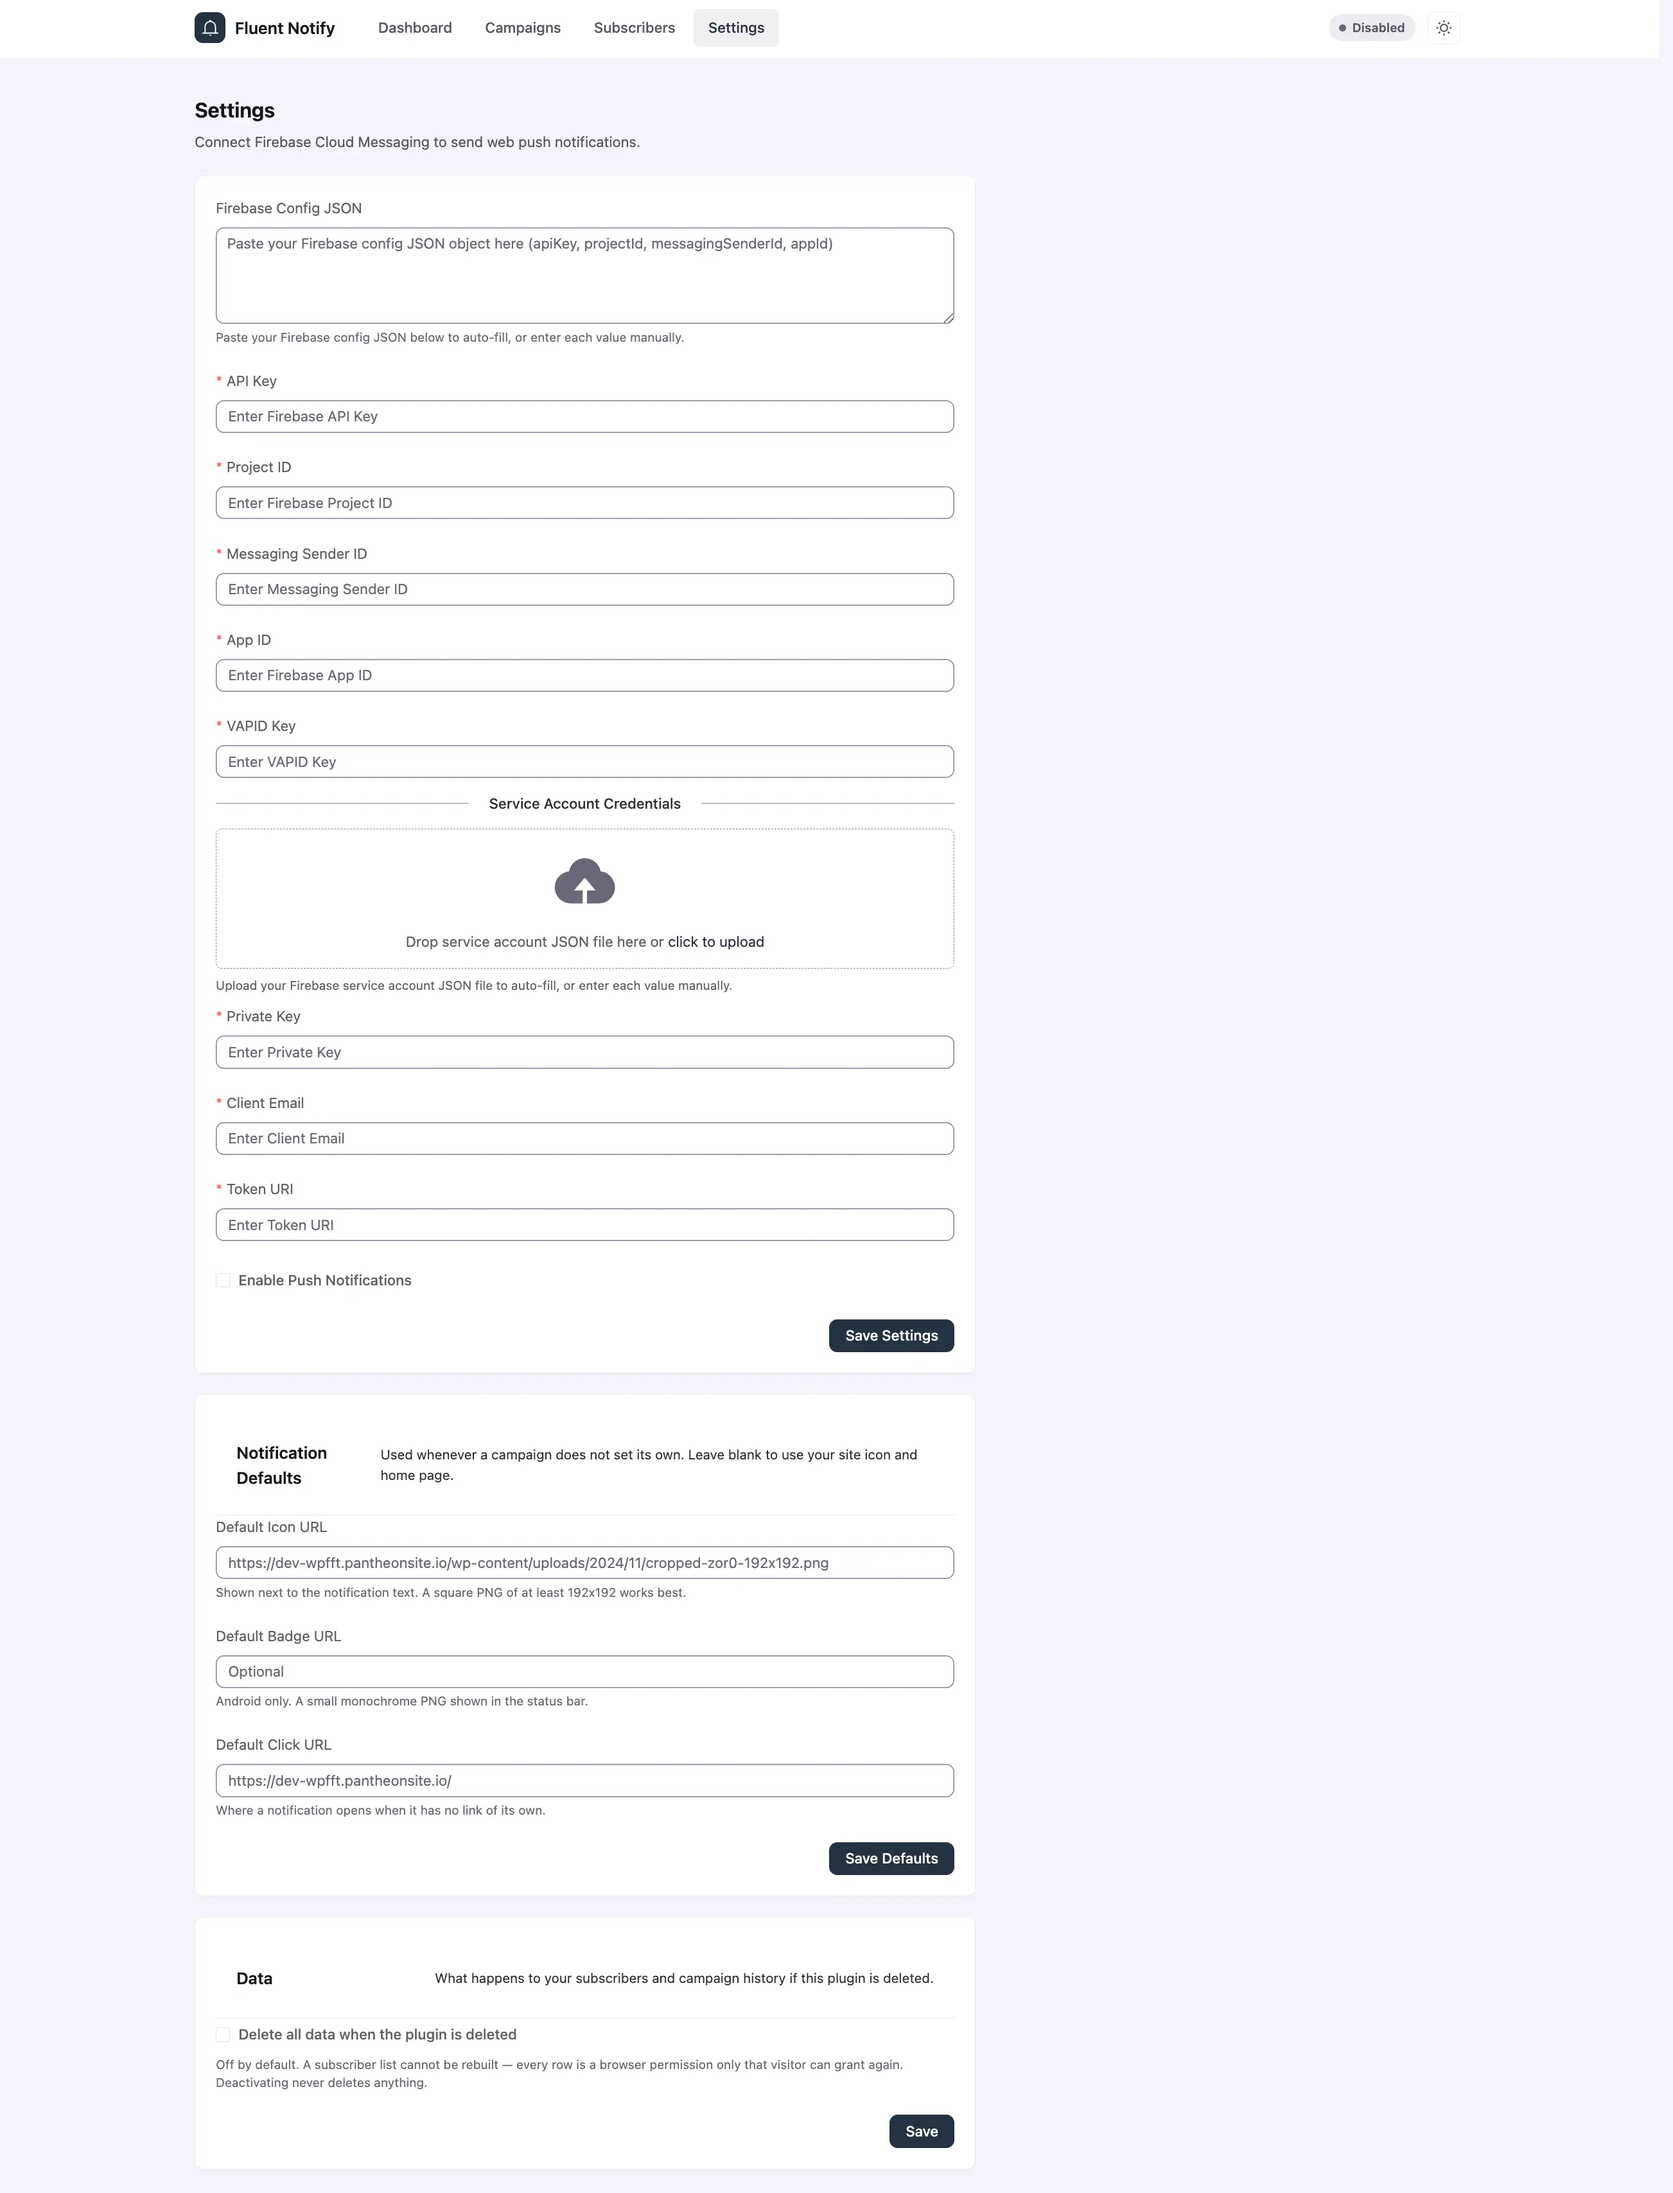
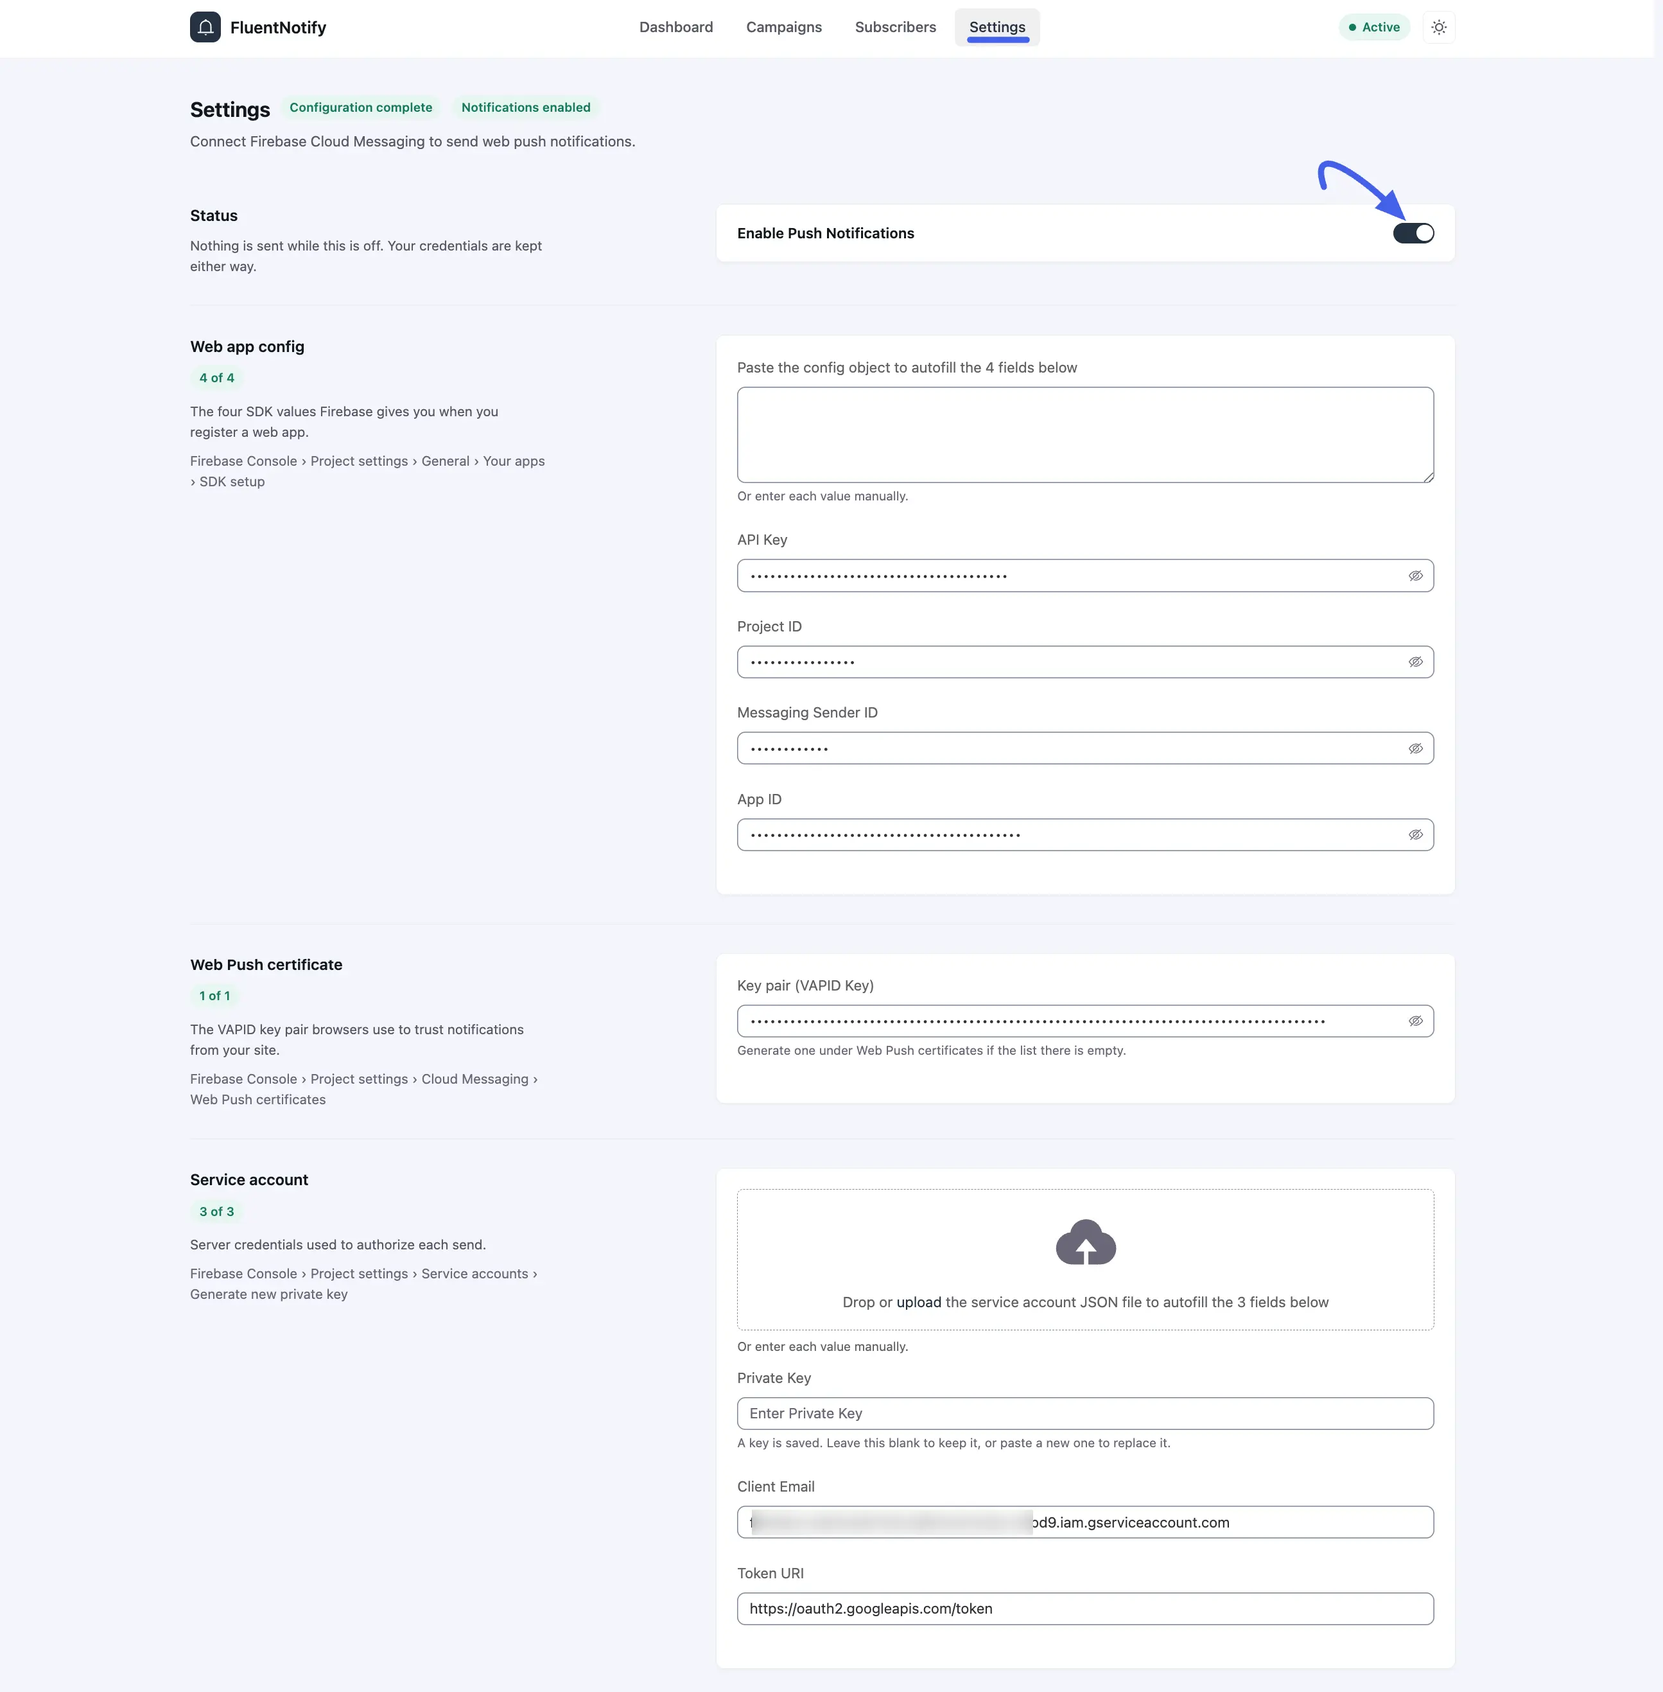
update Push Notifications with Firebase (Pro) docs

diff --git a/docs/portal-settings/push-notifications-with-firebase.md b/docs/portal-settings/push-notifications-with-firebase.md
@@ -16,13 +16,27 @@ The Notification Center bell keeps members updated while they're inside your com
 
 1. Go to **Portal Settings → Features & Addons → Advanced Features & Addons**.
 2. Scroll down to the **Recommended Plugins and Addons** panel.
-3. Find **FluentNotify** *"Send browser push notifications to your community members for comments, replies and mentions"* — and click **Install FluentNotify**.
+3. Find **FluentNotify** *"Send browser push notifications to your community members for comments, replies and mentions"* and click **Install FluentNotify**.
 
 ![Install FluentNotify button](/images/portal-settings/push-notifications-with-firebase/install-fluentnotify-1.webp)
 
-Once it finishes installing, the button changes to **View Settings**. Click it to open FluentNotify's configuration screen.
+Once it finishes installing, the button changes to **View Settings**.
 
 ![The same panel after installation](/images/portal-settings/push-notifications-with-firebase/view-settings-2.webp)
+
+## Setting Default Push Notification Preferences
+
+Click **View Settings** to open the **Push Notification Settings** drawer. These are the community-wide defaults applied to any member who hasn't chosen their own preference yet, once a member changes a setting for themselves, their choice is kept and this default no longer applies to them.
+
+Three events are turned on by default:
+
+* **Notify when someone comments on their post**
+* **Notify when someone replies to their comment**
+* **Notify when someone mentions them**
+
+Uncheck any you don't want triggering a push notification by default, then click **Save Settings**. This takes you straight into FluentNotify's full settings screen, where you'll connect it to Firebase next.
+
+![The Push Notification Settings drawer with three default notification checkboxes and a Save Settings button](/images/portal-settings/push-notifications-with-firebase/enable-notification-settings-3.webp)
 
 ## Confirming New Posts Notifications Are Set Up
 
@@ -46,7 +60,6 @@ FluentNotify needs a set of credentials from a Firebase project to actually send
 ### Step 1: Create a Firebase Project
 
 Log in to the Firebase Console and click **Get started by setting up a Firebase project**.
-
 
 Enter a name for your project (for example, your community's name), accept the Firebase terms, and click **Continue**.
 
@@ -143,34 +156,36 @@ Keep this JSON handy — you'll paste it into FluentNotify shortly.
 
 3. In the confirmation pop-up, click **Generate key**.
 
-![The Generate new private key confirmation pop-up with the Generate key button](/images/portal-settings/push-notifications-with-firebase/generate-key-14.webp)
+![The Generate new private key ](/images/portal-settings/push-notifications-with-firebase/generate-key-14.webp)
 
 A `.json` file downloads to your computer. Keep it safe. Firebase can't regenerate this exact file if you lose it, and it grants access to your project's Firebase services.
 
 ## Connecting Firebase to FluentNotify
 
-Back in your WordPress dashboard, open **FluentNotify → Settings** (the **View Settings** button from earlier).
+After you save your default push notification preferences, you land on FluentNotify's full **Settings** screen. This is where you connect it to the Firebase project you just configured.
 
-1. **Paste** the **Firebase Config JSON** you copied in Step 3 into the **Firebase Config JSON** box. FluentNotify auto-fills the **API Key**, **Project ID**, **Messaging Sender ID**, and **App ID** fields from it, or you can enter each one manually.
-2. **Paste** your **VAPID Key** from Step 4 into its field.
-3. Under **Service Account Credentials**, drop the `.json` file you downloaded in Step 5 onto the upload area (or click to browse for it). This auto-fills the **Private Key**, **Client Email**, and **Token URI** fields.
-4. Check **Enable Push Notifications**.
+1. At the top of the page, turn on the **Enable Push Notifications** toggle. Nothing is sent while it's off, but your credentials are kept either way, so it's safe to turn on before you finish the rest of the form.
+2. Under **Web app config**, **paste** the **Firebase Config JSON** you copied in Step 3 into the box. FluentNotify auto-fills the **API Key**, **Project ID**, **Messaging Sender ID**, and **App ID** fields from it, or you can enter each one manually.
+3. Under **Web Push certificate**, **paste** your **VAPID Key** from Step 4 into the **Key pair** field.
+4. Under **Service account**, drop the `.json` file you downloaded in Step 5 onto the upload area (or click to browse for it). This auto-fills the **Private Key**, **Client Email**, and **Token URI** fields.
 5. Click the **Save Settings** button.
 
-> [!Note]
-> All five Firebase fields (API Key, Project ID, Messaging Sender ID, App ID, VAPID Key) plus the three service-account fields are required, **FluentNotify** won't send notifications until every one of them is filled in.
+Each panel shows a live count as you fill in its fields (e.g., "4 of 4"), and once everything is saved, the page header shows **Configuration complete** and **Notifications enabled**.
 
-![Configure Firebase to FluentNotify](/images/portal-settings/push-notifications-with-firebase/settings-12.webp)
+> [!Note]
+> All five Firebase fields (API Key, Project ID, Messaging Sender ID, App ID, VAPID Key) plus the three service-account fields are required, **FluentNotify** won't send notifications until every one of them is filled in and **Enable Push Notifications** is on.
+
+![The FluentNotify Settings ](/images/portal-settings/push-notifications-with-firebase/settings-12.webp)
 
 ## Notification Defaults
 
-Below the connection settings, **Notification Defaults** controls the fallback icon and link used whenever an individual notification doesn't specify its own:
+Below the connection settings, **Notification Defaults** controls the fallback icon, badge, and link used whenever a campaign doesn't set its own:
 
-- **Default Icon URL** — shown next to the notification text. A square PNG of at least 192×192px works best. Leave it blank to use your site icon.
+- **Default Icon URL** — shown next to the notification text. A square PNG of at least 192×192px works best.
 - **Default Badge URL** — Android only. A small monochrome PNG shown in the status bar. Optional.
-- **Default Click URL** — where the notification opens if it has no link of its own. Leave it blank to use your homepage.
+- **Default Click URL** — where the notification opens when it has no link of its own.
 
-Click **Save Defaults** to apply.
+Two buttons sit at the bottom: **Send test to me** sends a preview notification using these defaults to your own device, and **Save Settings** applies the changes.
 
 ![The Notification Defaults panel](/images/portal-settings/push-notifications-with-firebase/notification-defult-13.webp)
 
@@ -188,7 +203,7 @@ Once connected, members who grant browser notification permission get a real pus
 
 Inside the community itself, the same activity also appears in the in-app bell dropdown:
 
-![The Recent Notifications dropdown showing a comment alert](/images/portal-settings/push-notifications-with-firebase/notification-14.webp)
+![The Recent Notifications](/images/portal-settings/push-notifications-with-firebase/notification-14.webp)
 
 > [!Tip]
 > For the full breakdown of the bell dropdown's Recent, Unread, Mentions, and Following tabs, see [In-App Notification Settings](/in-app-notification-settings).
